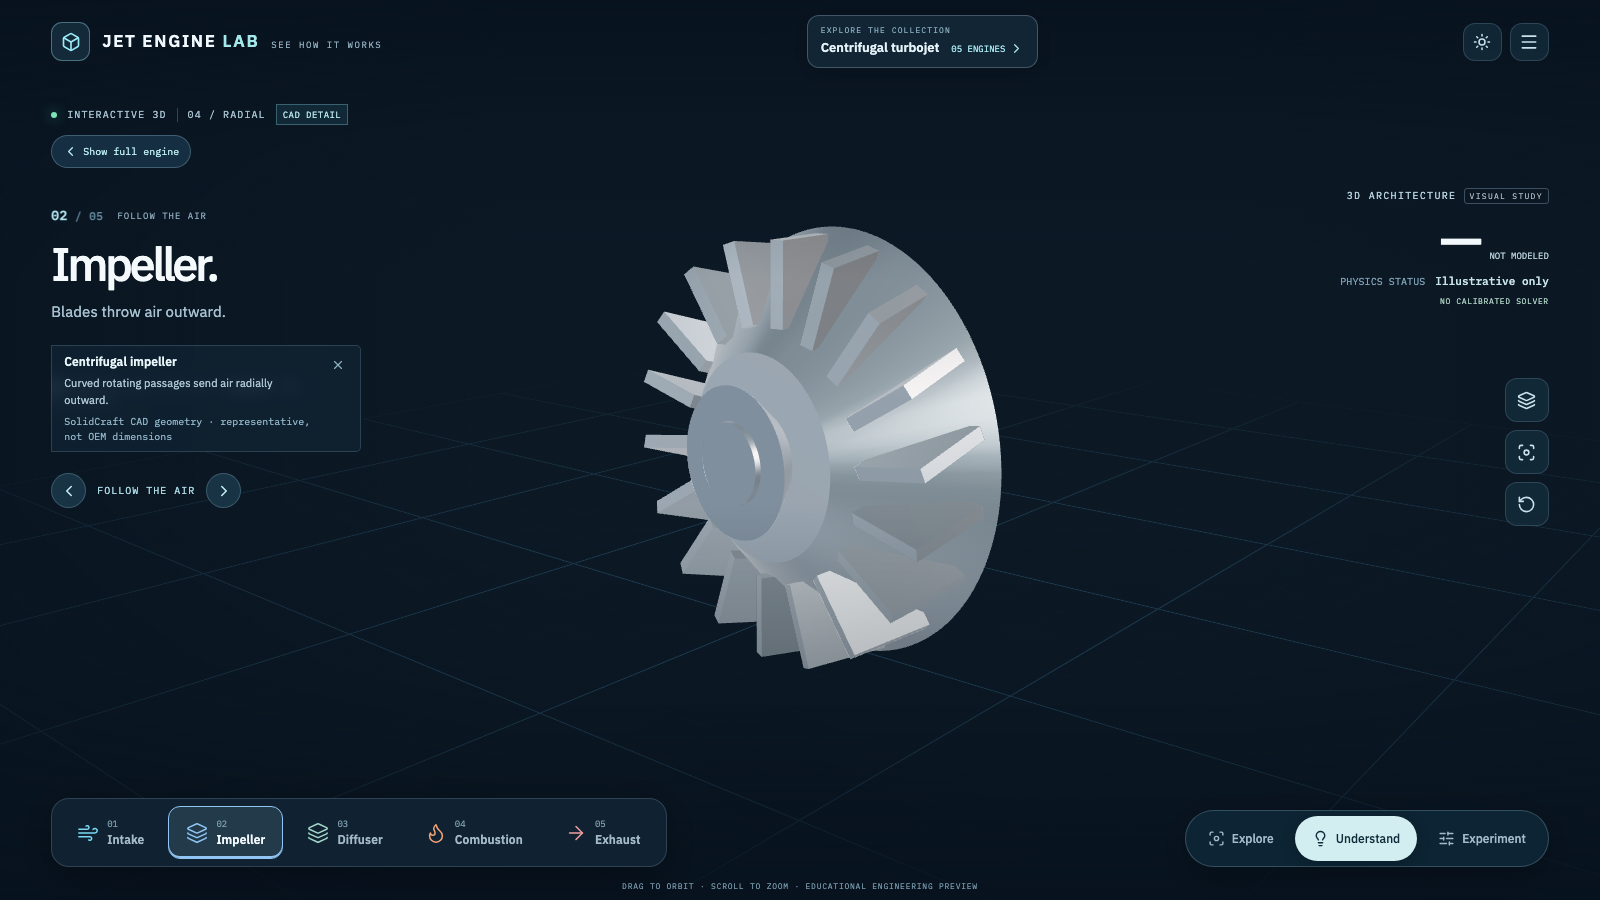
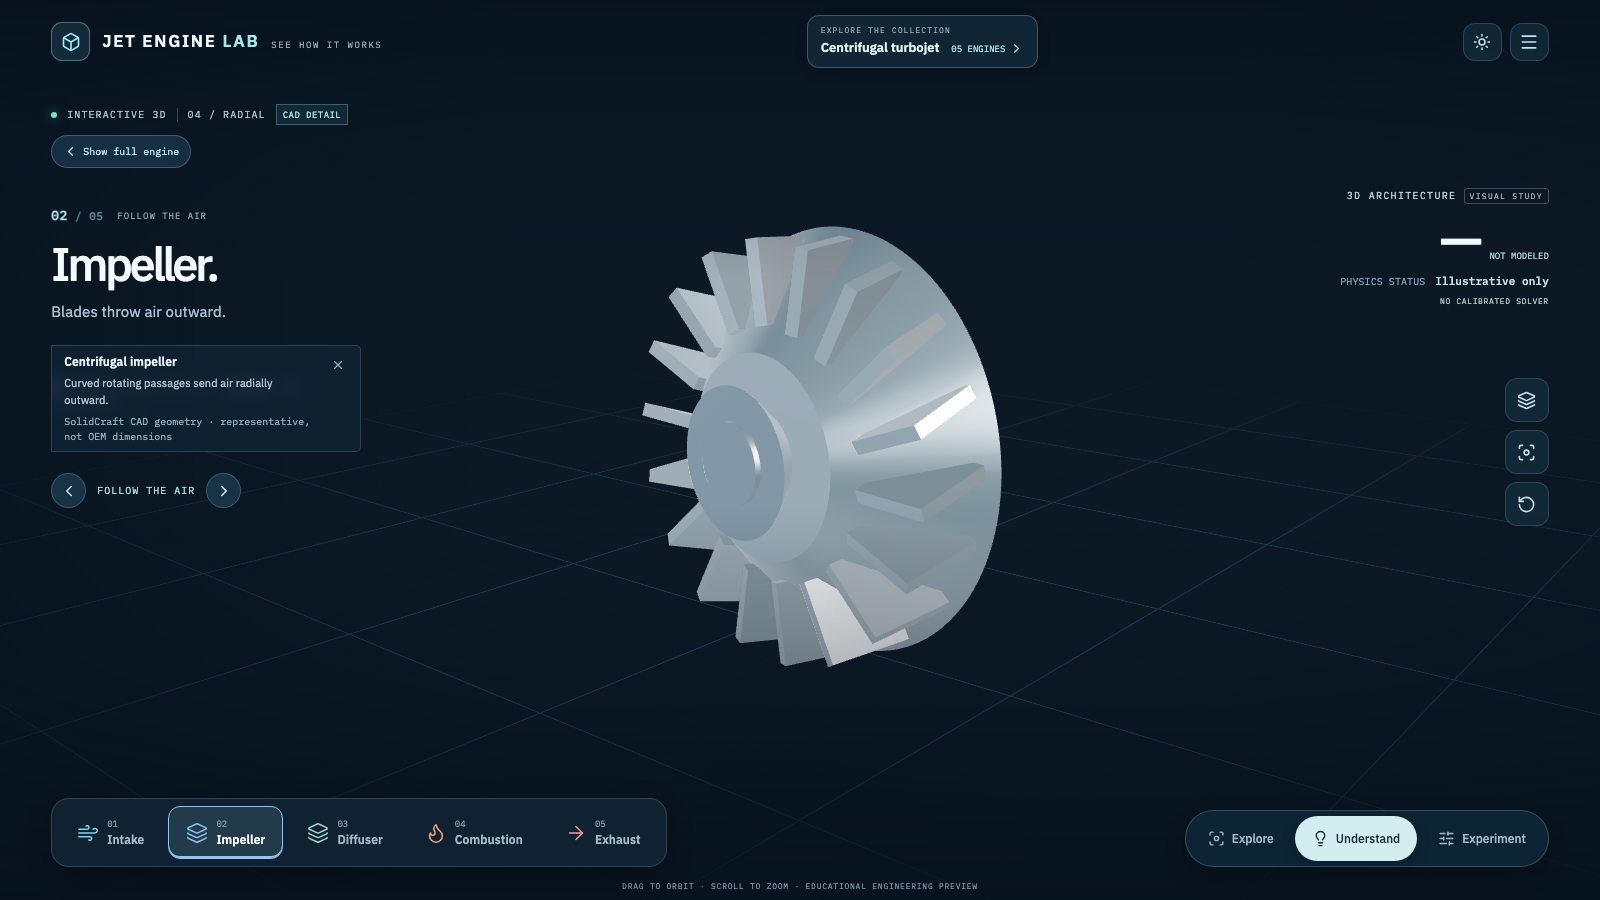
Refresh original CAD release screenshots after full assembly load

Changed region(s): [[0.4062, 0.2489, 0.5938, 0.7467], [0.5312, 0.4044, 0.625, 0.5911], [0.5938, 0.3733, 0.625, 0.4044]]

diff --git a/scripts/readme-screenshots.spec.ts b/scripts/readme-screenshots.spec.ts
@@ -28,7 +28,22 @@ async function openEngine(page: import('@playwright/test').Page, id: string) {
       entry => entry.name.endsWith('/assets/solidcraft/' + file + '.glb')
     ), cad, { timeout: 30_000 });
   }
+  // A network response can finish before React reveals the complete CAD assembly.
+  await expect(page.locator('.cad-assembly-loading')).toBeHidden({ timeout: 45_000 });
+  await expect(page.locator('.cad-asset-error')).toHaveCount(0);
   await page.waitForTimeout(1200);
+}
+
+async function waitForGalleryImages(page: import('@playwright/test').Page) {
+  // The production gallery lazy-loads cards below the fold. Screenshot capture
+  // must fetch all five before rendering the entire collection for documentation.
+  await page.locator('.visual-gallery-card img').evaluateAll(nodes => nodes.forEach(node => {
+    (node as HTMLImageElement).loading = 'eager';
+  }));
+  await expect.poll(() => page.locator('.visual-gallery-card img').evaluateAll(
+    nodes => nodes.every(node => (node as HTMLImageElement).complete &&
+      (node as HTMLImageElement).naturalWidth > 0)
+  ), { timeout: 30_000 }).toBe(true);
 }
 
 test('README desktop engine and gallery screenshots', async ({ page }) => {
@@ -40,10 +55,7 @@ test('README desktop engine and gallery screenshots', async ({ page }) => {
   await page.getByRole('button', { name: /EXPLORE THE COLLECTION/ }).click();
   await expect(page.getByRole('dialog', { name: 'Explore five jet engines' })).toBeVisible();
   await expect(page.locator('.visual-gallery-card')).toHaveCount(5);
-  await expect.poll(() => page.locator('.visual-gallery-card img').evaluateAll(
-    nodes => nodes.every(node => (node as HTMLImageElement).complete &&
-      (node as HTMLImageElement).naturalWidth > 0)
-  )).toBe(true);
+  await waitForGalleryImages(page);
   // Give the five cards enough vertical space so none is clipped.
   await page.setViewportSize({ width: 1600, height: 1050 });
   await page.screenshot({ path: OUTPUT + '/gallery-desktop.png', animations: 'disabled' });
@@ -99,10 +111,7 @@ test('README mobile screenshots — live production', async ({ page }) => {
   await page.getByRole('button', { name: /EXPLORE THE COLLECTION/ }).click();
   await expect(page.getByRole('dialog', { name: 'Explore five jet engines' })).toBeVisible();
   await expect(page.locator('.visual-gallery-card')).toHaveCount(5);
-  await expect.poll(() => page.locator('.visual-gallery-card img').evaluateAll(
-    nodes => nodes.every(node => (node as HTMLImageElement).complete &&
-      (node as HTMLImageElement).naturalWidth > 0)
-  )).toBe(true);
+  await waitForGalleryImages(page);
   await page.screenshot({ path: OUTPUT + '/gallery-mobile.png', animations: 'disabled' });
   console.log('READ_ME_SCREENSHOT', OUTPUT + '/engine-mobile.png');
   console.log('READ_ME_SCREENSHOT', OUTPUT + '/gallery-mobile.png');
